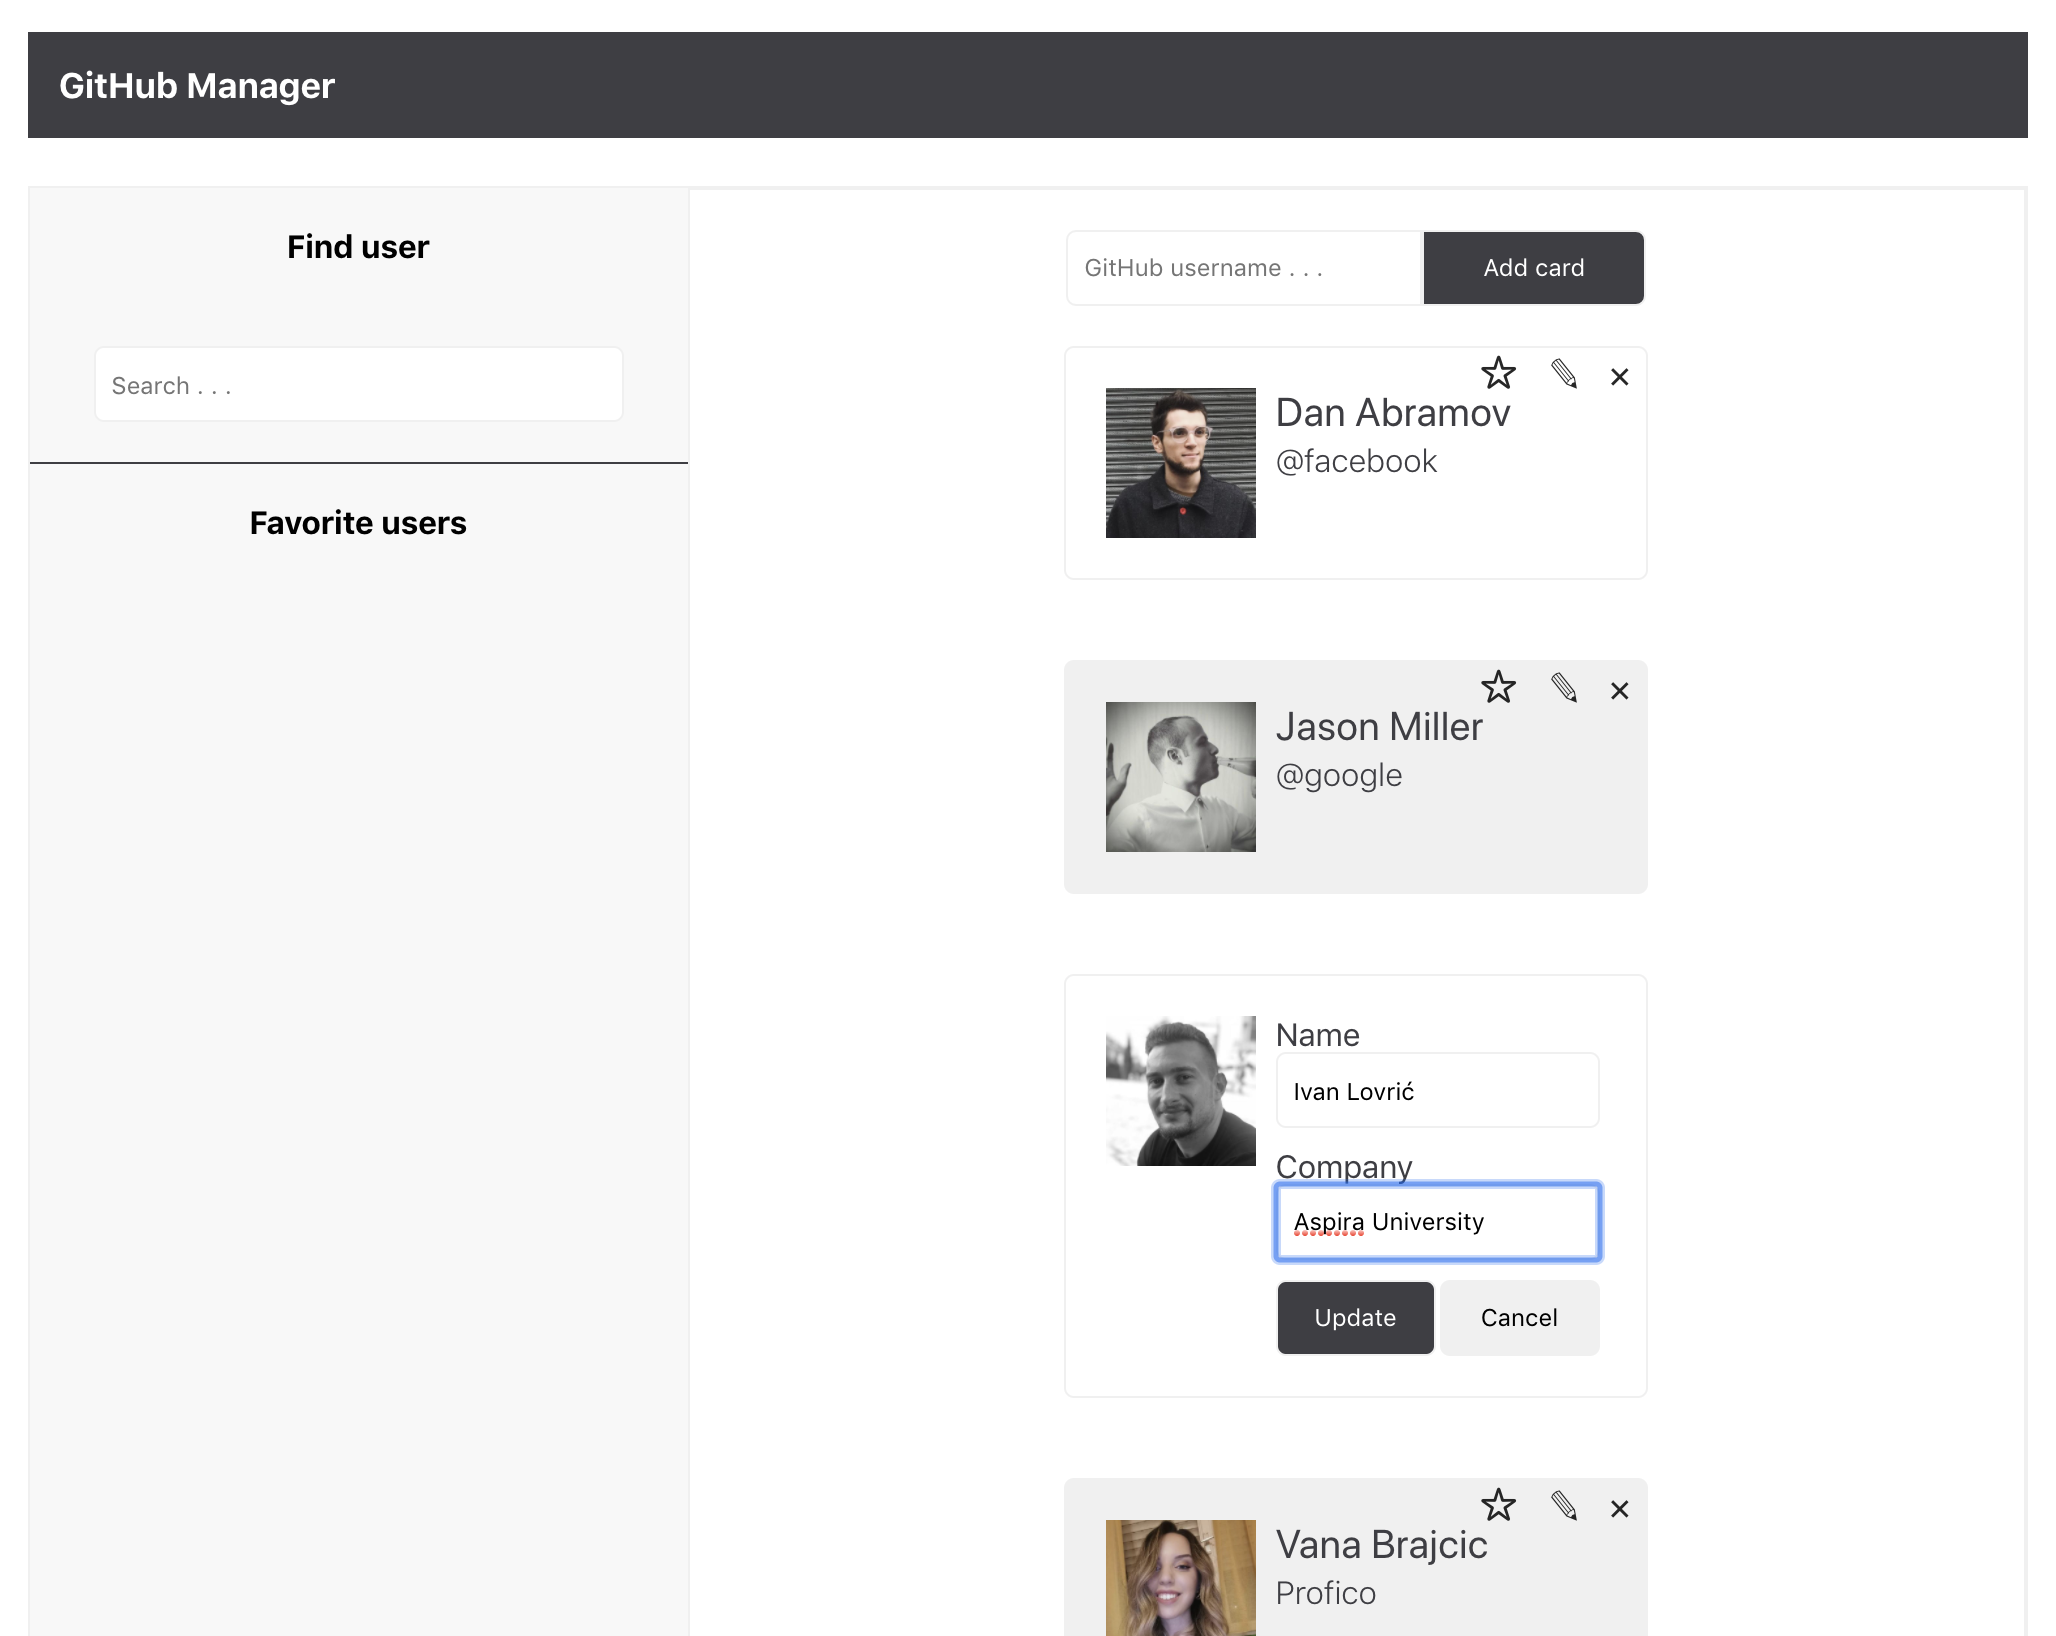
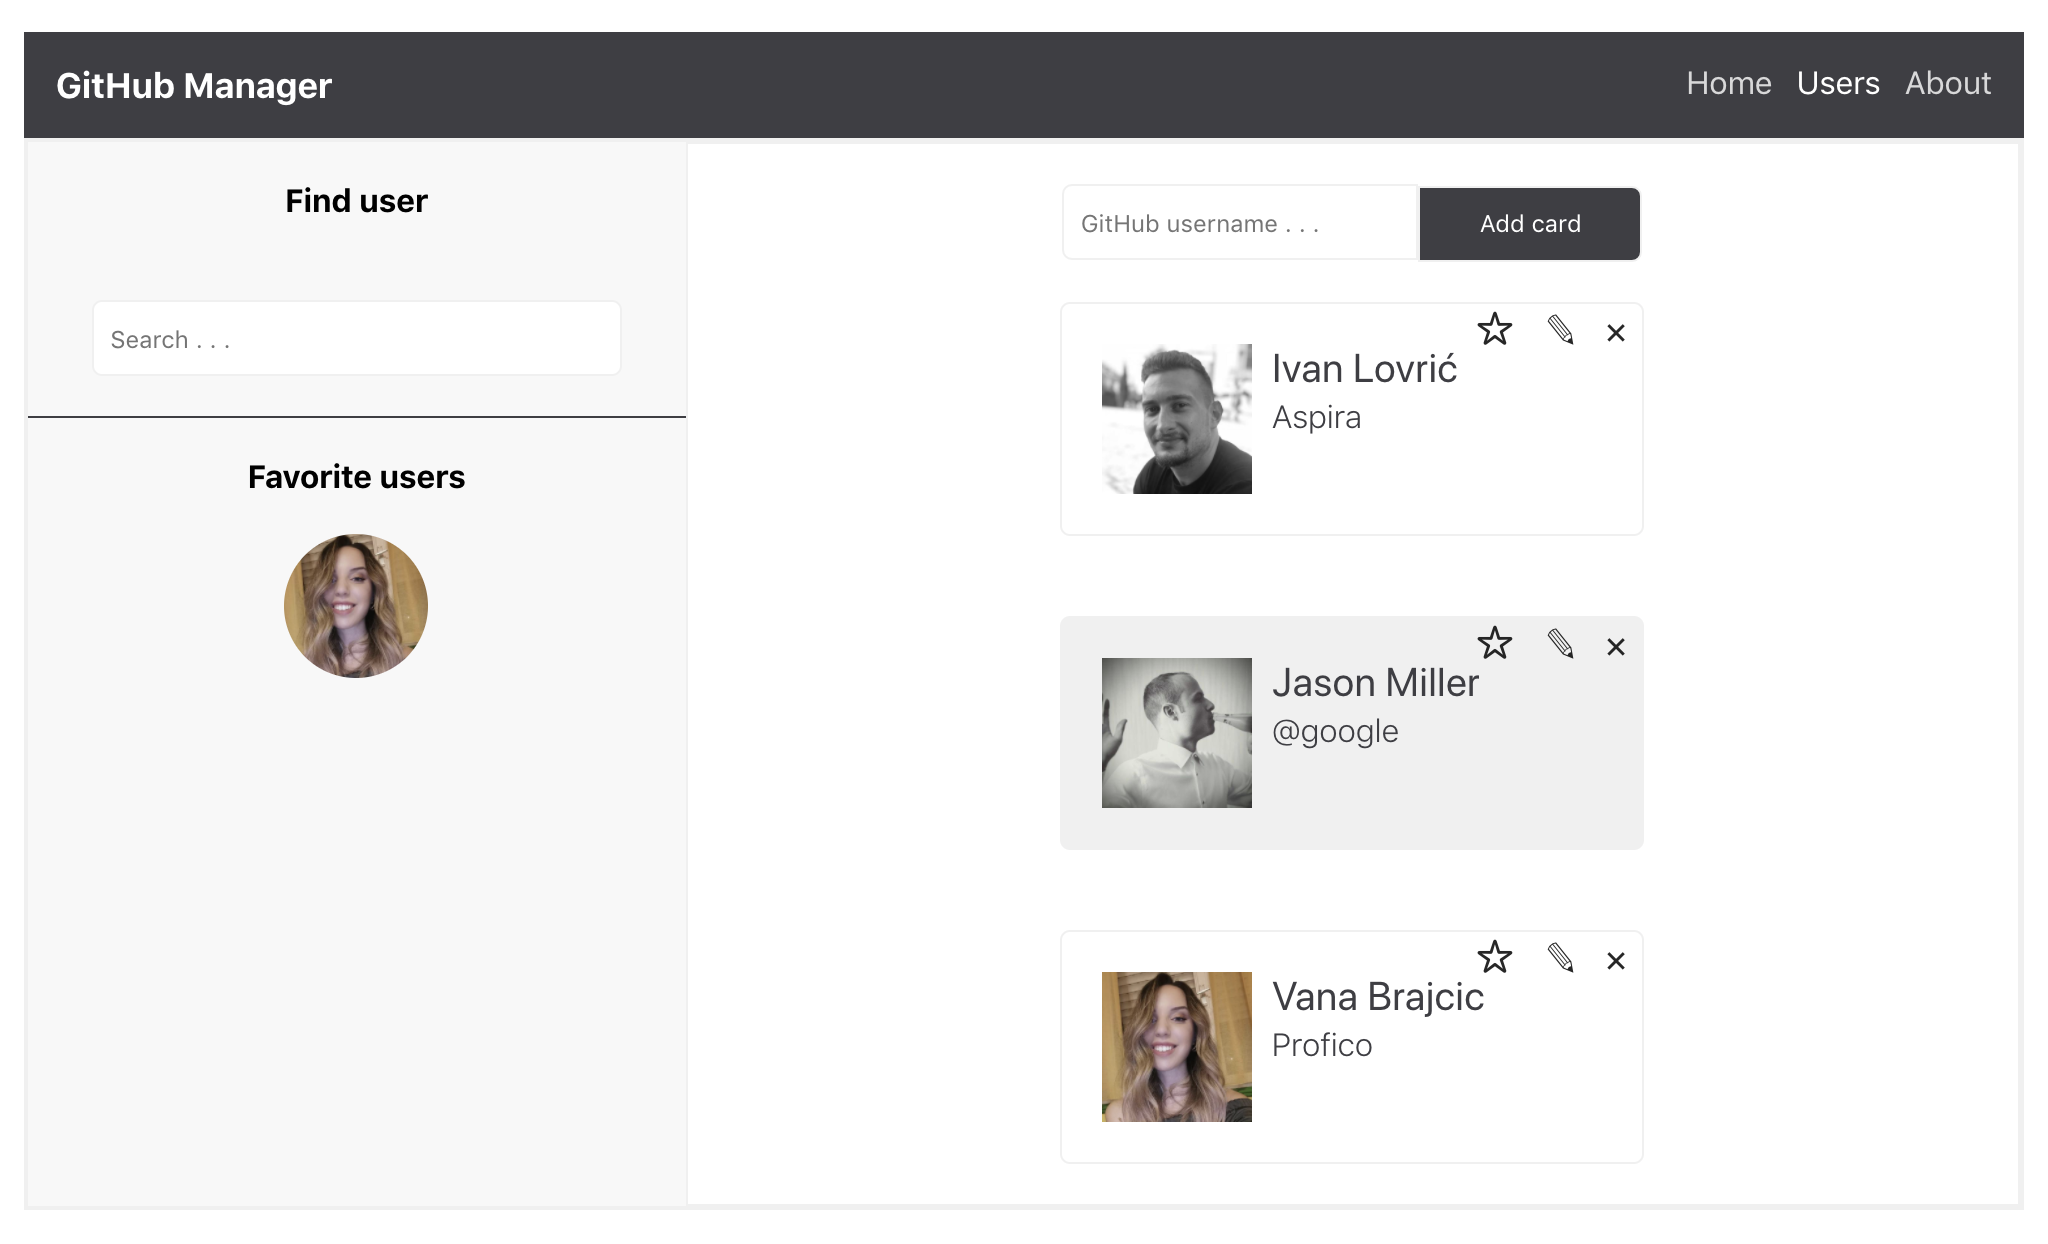
Task 20 completed

diff --git a/src/containers/App/App.js b/src/containers/App/App.js
@@ -1,20 +1,35 @@
 import React, { Component } from 'react';
 import { connect } from 'react-redux';
+import { BrowserRouter as Router, Route } from 'react-router-dom';
 import styles from './App.module.css';
+import About from '../../components/About/About';
 import Header from '../../components/Header/Header';
+import Home from '../../components/Home/Home';
 import Sidebar from '../../components/Sidebar/Sidebar';
 import Main from '../../components/Main/Main';
 
 class App extends Component {
   render() {
     return (
-      <div className={styles.container}>
-        <Header />
-        <div className={styles.containerFlex}>
-          <Sidebar cards={this.props.bookmarkedCards} />
-          <Main cards={this.props.filteredCards} />
+      <Router>
+        <div className={styles.container}>
+          <Header />
+          <div className={styles.containerFlex}>
+            <Route exact path="/" component={Home} />
+            <Route
+              exact
+              path="/users"
+              render={() => (
+                <div className={styles.containerFlex}>
+                  <Sidebar cards={this.props.bookmarkedCards} />
+                  <Main cards={this.props.filteredCards} />
+                </div>
+              )}
+            />
+            <Route path="/about" component={About} />
+          </div>
         </div>
-      </div>
+      </Router>
     );
   }
 }

diff --git a/src/components/About/About.js b/src/components/About/About.js
@@ -1,0 +1,30 @@
+import React from 'react';
+import styles from './About.module.css';
+
+const About = () => {
+  return (
+    <div className={styles.container}>
+      <h2>About</h2>
+      <p>
+        "Sed ut perspiciatis unde omnis iste natus error sit voluptatem
+        accusantium doloremque laudantium, totam rem aperiam, eaque ipsa quae ab
+        illo inventore veritatis et quasi architecto beatae vitae dicta sunt
+        explicabo. Nemo enim ipsam voluptatem quia voluptas sit aspernatur aut
+        odit aut fugit, sed quia consequuntur magni dolores eos qui ratione
+        voluptatem sequi nesciunt.
+      </p>
+      <p>
+        Neque porro quisquam est, qui dolorem ipsum quia dolor sit amet,
+        consectetur, adipisci velit, sed quia non numquam eius modi tempora
+        incidunt ut labore et dolore magnam aliquam quaerat voluptatem. Ut enim
+        ad minima veniam, quis nostrum exercitationem ullam corporis suscipit
+        laboriosam, nisi ut aliquid ex ea commodi consequatur? Quis autem vel
+        eum iure reprehenderit qui in ea voluptate velit esse quam nihil
+        molestiae consequatur, vel illum qui dolorem eum fugiat quo voluptas
+        nulla pariatur?"
+      </p>
+    </div>
+  );
+};
+
+export default About;

diff --git a/src/components/Home/Home.js b/src/components/Home/Home.js
@@ -1,0 +1,21 @@
+import React from 'react';
+import styles from './Home.module.css';
+
+const Home = () => {
+  return (
+    <div className={styles.container}>
+      <h2>Home</h2>
+      <p>
+        "Lorem ipsum dolor sit amet, consectetur adipiscing elit, sed do eiusmod
+        tempor incididunt ut labore et dolore magna aliqua. Ut enim ad minim
+        veniam, quis nostrud exercitation ullamco laboris nisi ut aliquip ex ea
+        commodo consequat. Duis aute irure dolor in reprehenderit in voluptate
+        velit esse cillum dolore eu fugiat nulla pariatur. Excepteur sint
+        occaecat cupidatat non proident, sunt in culpa qui officia deserunt
+        mollit anim id est laborum."
+      </p>
+    </div>
+  );
+};
+
+export default Home;

diff --git a/src/components/Header/Header.js b/src/components/Header/Header.js
@@ -1,10 +1,22 @@
 import React from 'react';
+import { NavLink } from 'react-router-dom';
 import styles from './Header.module.css';
 
 const Header = () => {
   return (
     <header className={styles.header}>
       <h4 className={styles.brand}>GitHub Manager</h4>
+      <nav>
+        <NavLink exact to="/" className={styles.link}>
+          Home
+        </NavLink>
+        <NavLink to="/users" className={styles.link}>
+          Users
+        </NavLink>
+        <NavLink to="/about" className={styles.link}>
+          About
+        </NavLink>
+      </nav>
     </header>
   );
 }

diff --git a/src/components/Header/Header.module.css b/src/components/Header/Header.module.css
@@ -1,9 +1,24 @@
 .header {
+  display: flex;
+  justify-content: space-between;
   background-color: #3e3e43;
+  padding: 1rem;
 }
 
 .brand {
   color: #fff;
-  padding: 1rem;
   font-size: 1.1rem;
+  margin: unset;
+}
+
+.link {
+  text-decoration: none;
+  color: #fff;
+  opacity: 0.8;
+  margin-left: 0.75rem;
+}
+
+.link:hover {
+  cursor: pointer;
+  opacity: 0.5;
 }

diff --git a/src/index.js b/src/index.js
@@ -1,7 +1,7 @@
 import React from 'react';
 import ReactDOM from 'react-dom';
-import './styles/index.css';
 import App from './containers/App/App';
+import './styles/index.css';
 import { Provider } from 'react-redux';
 import configureStore from './redux/store';
 

diff --git a/src/styles/index.css b/src/styles/index.css
@@ -11,3 +11,7 @@ code {
   font-family: source-code-pro, Menlo, Monaco, Consolas, 'Courier New',
     monospace;
 }
+
+.active {
+  opacity: 1;
+}

diff --git a/src/components/About/About.module.css b/src/components/About/About.module.css
@@ -1,0 +1,7 @@
+.container {
+  width: 100%;
+  max-width: 500px;
+  min-width: 300px;
+  margin: 0 auto;
+  text-align: center;
+}

diff --git a/src/components/Home/Home.module.css b/src/components/Home/Home.module.css
@@ -1,0 +1,7 @@
+.container {
+  width: 100%;
+  max-width: 500px;
+  min-width: 300px;
+  margin: 0 auto;
+  text-align: center;
+}

diff --git a/README.md b/README.md
@@ -14,11 +14,11 @@ First, make sure you have **Node.js** (npm) installed.
 git clone https://github.com/ilovric00/aspira-spj-20.git
 ```
 
-### Checkout to lection-9/task-4 branch
+### Checkout to lection-10/task-1 branch
 
 ```
 cd aspira-spj-20
-git checkout lection-9/task-4
+git checkout lection-10/task-1
 ```
 
 ### Run development server
